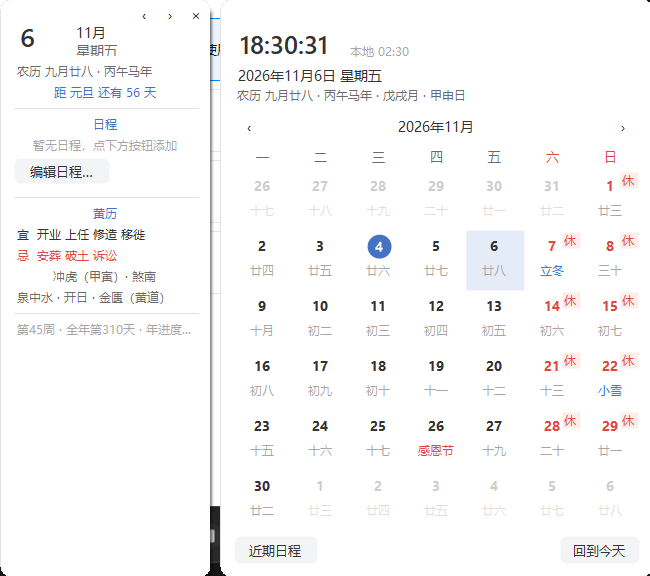
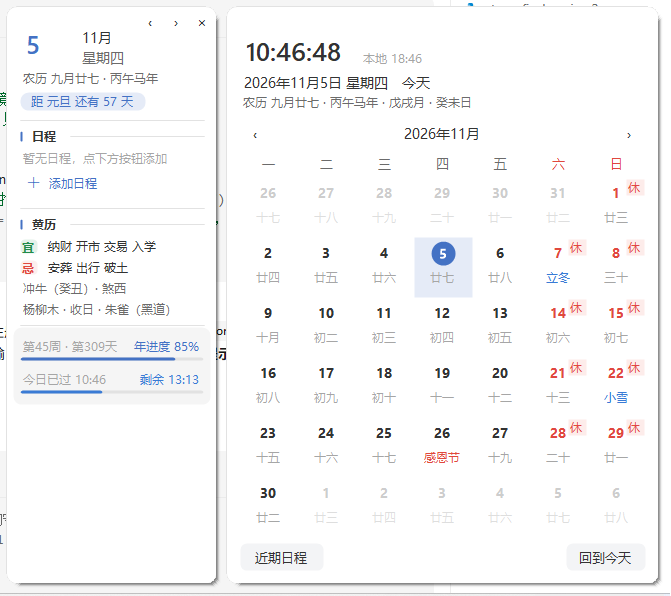
优化: 日期详情卡片视觉层次与进度信息
- 层次感: 小节标题(强调色竖条+粗体+延伸线), 宜/忌彩色标签, 假期倒计时胶囊徽章, 查看今天时大数字强调色, 底部进度区内嵌底板
- 新增: 年度进度条(周/天/百分比), 查看今天时附今日已过/剩余时长+当日进度条(实时)
- 日程按钮改图标链接式: 空日程"+ 添加日程"(MDL2 E710), 有日程"✏ 编辑日程"(E70F), 悬停圆角底
- 修复: 无 TextFormatFlags 的 DrawText 默认水平居中导致卡片排版混乱(半左半中); 卡片头部 10.5pt 行高矩形过小裁掉星期/月份底部笔画; 黄历小节多余步进
- README: 更新详情卡片功能描述/操作表/截图/致谢(Ant Design Calendar)

diff --git a/TaskbarChinaClock.cs b/TaskbarChinaClock.cs
@@ -345,7 +345,7 @@ namespace ChinaClock
     internal sealed class PanelPalette
     {
         public bool Dark;
-        public Color Back, Border, Text, Sub, Red, Blue, Accent, Dim, DimSub, SubLunar,
+        public Color Back, Border, Text, Sub, Red, Blue, Good, Accent, Dim, DimSub, SubLunar,
             SelBg, Hover, BtnBg, BtnHot, RestBg, RestFg, WorkBg, WorkFg, Dot;
 
         public static PanelPalette Load()
@@ -366,6 +366,7 @@ namespace ChinaClock
                 p.Sub = Color.FromArgb(107, 107, 107);
                 p.Red = Color.FromArgb(224, 72, 62);
                 p.Blue = Color.FromArgb(58, 123, 213);
+                p.Good = Color.FromArgb(34, 139, 74);
                 p.Dim = Color.FromArgb(205, 205, 205);
                 p.DimSub = Color.FromArgb(222, 222, 222);
                 p.SubLunar = Color.FromArgb(166, 166, 166);
@@ -386,6 +387,7 @@ namespace ChinaClock
                 p.Sub = Color.FromArgb(156, 156, 156);
                 p.Red = Color.FromArgb(240, 98, 88);
                 p.Blue = Color.FromArgb(110, 160, 225);
+                p.Good = Color.FromArgb(112, 190, 128);
                 p.Dim = Color.FromArgb(84, 84, 84);
                 p.DimSub = Color.FromArgb(74, 74, 74);
                 p.SubLunar = Color.FromArgb(150, 150, 150);
@@ -1404,6 +1406,8 @@ namespace ChinaClock
         private int _pad, _headerH, _titleH, _weekH, _cellH, _cellW, _footerH;
         private int _offDate, _offInfo; // 头部日期行/农历行距头部顶端的物理偏移（按字体行高算得）
         private Font _fTime, _fDate, _fInfo, _fWeek, _fDay, _fSmall, _fFoot;
+        private Font _fIcon;                     // Segoe 图标字体（添加/编辑日程小图标），可能为 null
+        private Font _fSection;                  // 小节标题粗体（日程/黄历 + 宜/忌标签）
         private Rectangle _gridRect, _btnTitlePrev, _btnTitleNext, _titleRect, _btnToday, _btnAgenda;
         private int _pickMode;      // 中部层级：0=月历 1=选月 2=选年（十年区）3=近期日程列表
         private int _pickYear;      // 选月/选年视图浏览的年份
@@ -1432,7 +1436,7 @@ namespace ChinaClock
 
         // 配色由 PanelPalette 按主题/强调色生成（C1/C3）
         private PanelPalette P;
-        private Color _cText, _cSub, _cRed, _cBlue, _cAccent, _cDim,
+        private Color _cText, _cSub, _cRed, _cBlue, _cGood, _cAccent, _cDim,
             _cDimSub, _cSubLunar, _cSelBg, _cHover, _cBtnBg, _cBtnHot,
             _cBorder, _cRestBg, _cRestFg, _cWorkBg, _cWorkFg, _cDot;
 
@@ -1451,7 +1455,7 @@ namespace ChinaClock
             Settings.Load();
             P = PanelPalette.Load();
             BackColor = P.Back;
-            _cText = P.Text; _cSub = P.Sub; _cRed = P.Red; _cBlue = P.Blue; _cAccent = P.Accent; _cDim = P.Dim;
+            _cText = P.Text; _cSub = P.Sub; _cRed = P.Red; _cBlue = P.Blue; _cGood = P.Good; _cAccent = P.Accent; _cDim = P.Dim;
             _cDimSub = P.DimSub; _cSubLunar = P.SubLunar; _cSelBg = P.SelBg; _cHover = P.Hover;
             _cBtnBg = P.BtnBg; _cBtnHot = P.BtnHot; _cBorder = P.Border; _cDot = P.Dot;
             _cRestBg = P.RestBg; _cRestFg = P.RestFg; _cWorkBg = P.WorkBg; _cWorkFg = P.WorkFg;
@@ -1466,6 +1470,8 @@ namespace ChinaClock
             _fDay = new Font("Segoe UI", 10.5F, FontStyle.Bold);
             _fSmall = new Font("Microsoft YaHei UI", 8.5F);
             _fFoot = new Font("Microsoft YaHei UI", 9.5F);
+            _fIcon = MakeIconFont(10F);
+            _fSection = new Font("Microsoft YaHei UI", 9F, FontStyle.Bold);
             int hTime = TextRenderer.MeasureText("00:00:00", _fTime).Height;
             int hDate = TextRenderer.MeasureText("2026年11月4日 星期三", _fDate).Height;
             int hInfo = TextRenderer.MeasureText("农历 九月廿六", _fInfo).Height;
@@ -2096,15 +2102,17 @@ namespace ChinaClock
             DrawGlyphButton(g, _btnCardNext, "›", _cardHot == 2);
             DrawGlyphButton(g, _btnCardClose, "×", _cardHot == 3);
 
-            // 大字日期（日 + 月 + 星期）
+            // 大字日期（日 + 月 + 星期）；查看今天时大数字用强调色，与其他日期区分
+            // 注：雅黑 10.5pt 行高≈18.5px，旧矩形高 18/16px 会把 CJK 最底一笔裁掉（"三"变"二"），已加高矩形
             y += Scale(4);
+            bool cardToday = d.Date == Now().Date;
             TextRenderer.DrawText(g, d.Day.ToString(), _fTime, new Rectangle(rx, y, Scale(52), Scale(38)),
-                _cText, TextFormatFlags.Left | TextFormatFlags.VerticalCenter);
+                cardToday ? _cAccent : _cText, TextFormatFlags.Left | TextFormatFlags.VerticalCenter);
             TextRenderer.DrawText(g, d.ToString("M月"), _fDate,
-                new Rectangle(rx + Scale(58), y + Scale(5), rw - Scale(58), Scale(18)),
+                new Rectangle(rx + Scale(58), y + Scale(3), rw - Scale(58), Scale(19)),
                 _cText, TextFormatFlags.Left | TextFormatFlags.Top);
             TextRenderer.DrawText(g, WeekFull[(int)d.DayOfWeek], _fDate,
-                new Rectangle(rx + Scale(58), y + Scale(23), rw - Scale(58), Scale(16)),
+                new Rectangle(rx + Scale(58), y + Scale(23), rw - Scale(58), Scale(21)),
                 _cSub, TextFormatFlags.Left | TextFormatFlags.Top);
             y += Scale(46);
 
@@ -2119,7 +2127,8 @@ namespace ChinaClock
             {
                 bool isFest = di.Festival != null;
                 TextRenderer.DrawText(g, isFest ? di.Festival : di.TermName, _fInfo,
-                    new Rectangle(rx, y, rw, Scale(16)), isFest ? _cRed : _cBlue);
+                    new Rectangle(rx, y, rw, Scale(16)), isFest ? _cRed : _cBlue,
+                    TextFormatFlags.Left | TextFormatFlags.VerticalCenter | TextFormatFlags.EndEllipsis);
                 y += Scale(21);
             }
 
@@ -2129,29 +2138,35 @@ namespace ChinaClock
             {
                 bool work = di.Badge == "班";
                 TextRenderer.DrawText(g, reason + (work ? "（补班）" : "（休）"), _fInfo,
-                    new Rectangle(rx, y, rw, Scale(16)), work ? _cWorkFg : _cRestFg);
+                    new Rectangle(rx, y, rw, Scale(16)), work ? _cWorkFg : _cRestFg,
+                    TextFormatFlags.Left | TextFormatFlags.VerticalCenter | TextFormatFlags.EndEllipsis);
                 y += Scale(21);
             }
 
-            // 假期区间 / 倒计时
+            // 假期区间 / 倒计时：胶囊徽章（强调色浅底），头部信息区与正文区的视觉分界
             string hol = HolidayLine(d);
             if (hol != null)
             {
-                TextRenderer.DrawText(g, hol, _fInfo, new Rectangle(rx, y, rw, Scale(16)), _cAccent);
-                y += Scale(21);
+                Size hz = TextRenderer.MeasureText(g, hol, _fInfo);
+                Rectangle pill = new Rectangle(rx, y + Scale(1), Math.Min(rw, hz.Width + Scale(16)), Scale(19));
+                using (SolidBrush b = new SolidBrush(_cSelBg))
+                    g.FillPath(b, RoundedPath(pill, pill.Height / 2 - 1));
+                TextRenderer.DrawText(g, hol, _fInfo, pill, _cAccent,
+                    TextFormatFlags.HorizontalCenter | TextFormatFlags.VerticalCenter | TextFormatFlags.EndEllipsis);
+                y += Scale(26);
             }
 
             DrawSep(g, rx, y, rw);
             y += Scale(11);
 
-            // 当天日程（最多 4 行，超出折叠）
-            TextRenderer.DrawText(g, "日程", _fSmall, new Rectangle(rx, y, rw, Scale(15)), _cAccent);
-            y += Scale(21);
+            // 当天日程（最多 6 行，超出折叠）
+            y += DrawSectionTitle(g, "日程", y, rx, rw);
             List<AgendaItem> items = AgendaStore.On(d);
             if (items.Count == 0)
             {
                 TextRenderer.DrawText(g, "暂无日程，点下方按钮添加", _fSmall,
-                    new Rectangle(rx, y, rw, Scale(15)), _cSubLunar);
+                    new Rectangle(rx, y, rw, Scale(15)), _cSubLunar,
+                    TextFormatFlags.Left | TextFormatFlags.VerticalCenter);
                 y += Scale(21);
             }
             else
@@ -2159,10 +2174,11 @@ namespace ChinaClock
                 int shown = 0;
                 foreach (AgendaItem it in items)
                 {
-                    if (shown >= 4)
+                    if (shown >= 6)
                     {
                         TextRenderer.DrawText(g, "… 共 " + items.Count + " 项", _fSmall,
-                            new Rectangle(rx, y, rw, Scale(15)), _cSub);
+                            new Rectangle(rx, y, rw, Scale(15)), _cSub,
+                            TextFormatFlags.Left | TextFormatFlags.VerticalCenter);
                         y += Scale(20);
                         break;
                     }
@@ -2173,26 +2189,39 @@ namespace ChinaClock
                     shown++;
                 }
             }
-            _btnCardEdit = new Rectangle(rx, y, Scale(96), Scale(26));
-            DrawMiniButton(g, _btnCardEdit, "编辑日程…", _cardHot == 4);
-            y += Scale(36);
+            // 添加/编辑日程：轻量"图标+文字"链接式按钮（悬停补圆角底），替代笨重的灰底块
+            bool emptyAgenda = items.Count == 0;
+            string btnText = emptyAgenda ? "添加日程" : "编辑日程";
+            string btnGlyph = emptyAgenda ? "\uE710" : "\uE70F";   // MDL2：加号 / 铅笔
+            Size btnTsz = TextRenderer.MeasureText(g, btnText, _fInfo);
+            int btnH = Scale(24), glyphW = Scale(16), btnPad = Scale(7);
+            _btnCardEdit = new Rectangle(rx, y, btnPad + glyphW + Scale(3) + btnTsz.Width + btnPad, btnH);
+            if (_cardHot == 4) FillHover(g, _btnCardEdit);
+            if (_fIcon != null)
+                TextRenderer.DrawText(g, btnGlyph, _fIcon,
+                    new Rectangle(rx + btnPad, y, glyphW, btnH), _cAccent,
+                    TextFormatFlags.Left | TextFormatFlags.VerticalCenter | TextFormatFlags.NoPadding);
+            else
+                TextRenderer.DrawText(g, "+", _fWeek,
+                    new Rectangle(rx + btnPad, y, glyphW, btnH), _cAccent,
+                    TextFormatFlags.Left | TextFormatFlags.VerticalCenter);
+            TextRenderer.DrawText(g, btnText, _fInfo,
+                new Rectangle(rx + btnPad + glyphW + Scale(3), y, btnTsz.Width, btnH), _cAccent,
+                TextFormatFlags.Left | TextFormatFlags.VerticalCenter);
+            y += Scale(34);
             DrawSep(g, rx, y, rw);
             y += Scale(11);
 
             // 黄历
-            TextRenderer.DrawText(g, "黄历", _fSmall, new Rectangle(rx, y, rw, Scale(15)), _cAccent);
-            y += Scale(21);
+            y += DrawSectionTitle(g, "黄历", y, rx, rw);
             string officer = Almanac.Officer(di.GanZhiDay, di.GanZhiMonth);
-            TextRenderer.DrawText(g, "宜  " + Almanac.Yi(officer), _fInfo,
-                new Rectangle(rx, y, rw, Scale(16)), _cText,
-                TextFormatFlags.Left | TextFormatFlags.EndEllipsis);
-            y += Scale(21);
-            TextRenderer.DrawText(g, "忌  " + Almanac.Ji(officer), _fInfo,
-                new Rectangle(rx, y, rw, Scale(16)), _cRed,
-                TextFormatFlags.Left | TextFormatFlags.EndEllipsis);
-            y += Scale(21);
+            y += DrawAlmanacRow(g, "宜", PanelPalette.Blend(P.Back, P.Good, 0.12f), _cGood,
+                Almanac.Yi(officer), y, rx, rw);
+            y += DrawAlmanacRow(g, "忌", PanelPalette.Blend(P.Back, P.Red, 0.09f), _cRed,
+                Almanac.Ji(officer), y, rx, rw);
             TextRenderer.DrawText(g, Almanac.ChongSha(di.GanZhiDay), _fInfo,
-                new Rectangle(rx, y, rw, Scale(16)), _cSub);
+                new Rectangle(rx, y, rw, Scale(16)), _cSub,
+                TextFormatFlags.Left | TextFormatFlags.VerticalCenter | TextFormatFlags.EndEllipsis);
             y += Scale(21);
             bool yellow;
             string zs = Almanac.ZhiShen(di.GanZhiDay, di.GanZhiMonth, out yellow);
@@ -2203,12 +2232,103 @@ namespace ChinaClock
             DrawSep(g, rx, y, rw);
             y += Scale(11);
 
-            // 年度进度（优效日历同款信息）
+            // 底部进度区：内嵌浅色圆角底，把年度/今日两条进度聚合成独立信息区
+            Rectangle foot = new Rectangle(rx - Scale(7), y - Scale(6), rw + Scale(14), cardToday ? Scale(78) : Scale(40));
+            using (SolidBrush b = new SolidBrush(PanelPalette.Blend(P.Back, P.Text, 0.05f)))
+                g.FillPath(b, RoundedPath(foot, Scale(8)));
+            y += Scale(5);
+
+            // 年度进度（左：周/天，右：百分比，下：细进度条——优效日历同款信息，避免长文案被省略号截断）
             int daysInYear = DateTime.IsLeapYear(d.Year) ? 366 : 365;
             int pct = (int)Math.Round(d.DayOfYear * 100.0 / daysInYear);
-            TextRenderer.DrawText(g, "第" + CalendarData.IsoWeek(d) + "周 · 全年第" + d.DayOfYear + "天 · 年进度 " + pct + "%",
-                _fSmall, new Rectangle(rx, y, rw, Scale(15)), _cSubLunar,
-                TextFormatFlags.Left | TextFormatFlags.EndEllipsis);
+            TextRenderer.DrawText(g, "第" + CalendarData.IsoWeek(d) + "周 · 第" + d.DayOfYear + "天", _fSmall,
+                new Rectangle(rx, y, rw - Scale(74), Scale(15)), _cSubLunar,
+                TextFormatFlags.Left | TextFormatFlags.VerticalCenter | TextFormatFlags.EndEllipsis);
+            TextRenderer.DrawText(g, "年进度 " + pct + "%", _fSmall,
+                new Rectangle(rx + rw - Scale(74), y, Scale(74), Scale(15)), _cAccent,
+                TextFormatFlags.Right | TextFormatFlags.VerticalCenter);
+            y += Scale(19);
+            Rectangle track = new Rectangle(rx, y, rw, Scale(4));
+            using (SolidBrush tb = new SolidBrush(_cBorder))
+                g.FillPath(tb, RoundedPath(track, Scale(2)));
+            int fillW = Math.Max(Scale(4), (int)Math.Round(rw * (double)pct / 100.0));
+            Rectangle fillR = new Rectangle(rx, y, fillW, Scale(4));
+            using (SolidBrush fb = new SolidBrush(_cAccent))
+                g.FillPath(fb, RoundedPath(fillR, Scale(2)));
+
+            // 今日时间进度（仅查看今天时显示）：已过/剩余 HH:mm + 细进度条（蓝色区分年度条）
+            if (d.Date == Now().Date)
+            {
+                y += Scale(14);
+                TimeSpan gone = Now() - d.Date;
+                double frac = Math.Max(0.0, Math.Min(1.0, gone.TotalDays));
+                TimeSpan left = TimeSpan.FromDays(1) - gone;
+                if (left < TimeSpan.Zero) left = TimeSpan.Zero;
+                TextRenderer.DrawText(g, "今日已过 " + gone.ToString(@"hh\:mm"), _fSmall,
+                    new Rectangle(rx, y, rw - Scale(74), Scale(15)), _cSubLunar,
+                    TextFormatFlags.Left | TextFormatFlags.VerticalCenter | TextFormatFlags.EndEllipsis);
+                TextRenderer.DrawText(g, "剩余 " + left.ToString(@"hh\:mm"), _fSmall,
+                    new Rectangle(rx + rw - Scale(74), y, Scale(74), Scale(15)), _cBlue,
+                    TextFormatFlags.Right | TextFormatFlags.VerticalCenter);
+                y += Scale(19);
+                Rectangle dtrack = new Rectangle(rx, y, rw, Scale(4));
+                using (SolidBrush tb = new SolidBrush(_cBorder))
+                    g.FillPath(tb, RoundedPath(dtrack, Scale(2)));
+                int dfillW = Math.Max(Scale(4), (int)Math.Round(rw * frac));
+                Rectangle dfillR = new Rectangle(rx, y, dfillW, Scale(4));
+                using (SolidBrush fb = new SolidBrush(_cBlue))
+                    g.FillPath(fb, RoundedPath(dfillR, Scale(2)));
+            }
+        }
+
+        // 卡片小图标字体：优先 Win11 的 Segoe Fluent Icons，回退 Win10 的 Segoe MDL2 Assets；都没有返回 null（画"+"代替）
+        private static Font MakeIconFont(float pt)
+        {
+            foreach (string name in new[] { "Segoe Fluent Icons", "Segoe MDL2 Assets" })
+            {
+                try { return new Font(new FontFamily(name), pt); }
+                catch { }
+            }
+            return null;
+        }
+
+        // 黄历宜/忌行：彩色小标签（chip）+ 中性色条目；条目放不下自动折两行带省略号，返回实际占用高度
+        private int DrawAlmanacRow(Graphics g, string label, Color chipBg, Color chipFg, string items, int y, int rx, int rw)
+        {
+            int chipW = Scale(18), chipH = Scale(15), gap = Scale(7);
+            int itemsX = rx + chipW + gap;
+            int itemsW = rw - chipW - gap;
+            bool wrap = TextRenderer.MeasureText(g, items, _fInfo).Width > itemsW;
+            Rectangle chip = new Rectangle(rx, y + Scale(1), chipW, chipH);
+            using (SolidBrush b = new SolidBrush(chipBg))
+                g.FillPath(b, RoundedPath(chip, Scale(4)));
+            TextRenderer.DrawText(g, label, _fSection, chip, chipFg,
+                TextFormatFlags.HorizontalCenter | TextFormatFlags.VerticalCenter);
+            if (!wrap)
+            {
+                TextRenderer.DrawText(g, items, _fInfo, new Rectangle(itemsX, y, itemsW, Scale(17)), _cText,
+                    TextFormatFlags.Left | TextFormatFlags.VerticalCenter | TextFormatFlags.EndEllipsis);
+                return Scale(21);
+            }
+            TextRenderer.DrawText(g, items, _fInfo, new Rectangle(itemsX, y, itemsW, Scale(36)), _cText,
+                TextFormatFlags.Left | TextFormatFlags.WordBreak | TextFormatFlags.EndEllipsis);
+            return Scale(38);
+        }
+
+        // 小节标题：强调色竖条 + 粗体标题 + 右侧延伸细线（信息区视觉锚点），返回行高
+        private int DrawSectionTitle(Graphics g, string text, int y, int rx, int rw)
+        {
+            Rectangle tick = new Rectangle(rx, y + Scale(3), Scale(3), Scale(11));
+            using (SolidBrush b = new SolidBrush(_cAccent))
+                g.FillPath(b, RoundedPath(tick, Scale(1)));
+            Size ts = TextRenderer.MeasureText(g, text, _fSection);
+            TextRenderer.DrawText(g, text, _fSection, new Rectangle(rx + Scale(9), y, ts.Width + Scale(4), Scale(17)), _cText,
+                TextFormatFlags.Left | TextFormatFlags.VerticalCenter);
+            int lineX = rx + Scale(9) + ts.Width + Scale(9);
+            if (lineX < rx + rw - Scale(2))
+                using (Pen p = new Pen(_cBorder))
+                    g.DrawLine(p, lineX, y + Scale(8), rx + rw, y + Scale(8));
+            return Scale(22);
         }
 
         private void DrawSep(Graphics g, int x, int y, int w)
@@ -2406,7 +2526,7 @@ namespace ChinaClock
             _timer.Dispose();
             _tipPanel.Dispose();
             if (_editor != null && !_editor.IsDisposed) _editor.Dispose();
-            foreach (Font f in new[] { _fTime, _fDate, _fInfo, _fWeek, _fDay, _fSmall, _fFoot })
+            foreach (Font f in new[] { _fTime, _fDate, _fInfo, _fWeek, _fDay, _fSmall, _fFoot, _fIcon, _fSection })
                 if (f != null) f.Dispose();
             base.OnFormClosed(e);
         }

diff --git a/README.md b/README.md
@@ -18,7 +18,7 @@
 | ![近期日程](docs/agenda-list.png) | ![日程编辑器](docs/agenda-editor.png) |
 | 近期日程：未来 14 天清单 | 双击日期编辑日程（支持每年/农历重复） |
 | ![日期详情卡片](docs/day-detail.png) | |
-| 单击日期：旁边弹出当日详情卡片（含黄历） | |
+| 单击日期：旁边弹出当日详情卡片（含黄历/进度） | |
 
 ## 功能
 
@@ -32,11 +32,12 @@
 
 ### 日历面板（左键单击时钟打开/关闭）
 - 农历、节气、节日、干支纪年月日；今天强调色圆圈；周数列（可选）
-- **当日详情卡片**（优效日历式）：单击某天，面板旁边弹出独立圆角卡片——大字日期、节日/节气、休/班原因、假期区间（"第X天/共Y天"）或倒计时、当天日程（可一键编辑）、
-  **黄历**（宜/忌·十二建星、冲煞、纳音五行、值神黄道/黑道）、年度进度（第几周/第几天/百分比）；卡片上 `‹` `›` 逐日翻看，再点同天/Esc/× 收起
+- **当日详情卡片**（优效日历式）：单击某天，面板旁边弹出独立圆角卡片——大字日期（查看今天时为强调色）、节日/节气、休/班原因、假期倒计时**胶囊徽章**、当天日程（可一键编辑）、
+  **黄历**（宜/忌彩色标签·十二建星、冲煞、纳音五行、值神黄道/黑道）、**年度进度条**（第几周/第几天/百分比）；
+  查看**今天**时附**今日已过/剩余时长与当日进度条**（实时走动）；卡片上 `‹` `›` 逐日翻看，再点同天/Esc/× 收起
 - **年月选择器**：点标题逐级下钻（月历 → 选月 → 十年选年），`‹` `›`/滚轮按当前层级翻页，
   点空白/Esc 收起——与 Windows 自带日历 / WinUI CalendarView / v-calendar 同款交互
-- **日程备忘**：详情卡片上"编辑日程…"按钮编辑（日期格不响应双击，连点浏览不误弹编辑窗），
+- **日程备忘**：详情卡片上"+ 添加日程 / ✏ 编辑日程"图标按钮编辑（日期格不响应双击，连点浏览不误弹编辑窗），
   格底圆点标记，悬停显示清单；支持一次性、`每年 MM-DD`（公历每年）、`农历 MM-DD`（农历每年）三种格式
 - **近期日程**：底部按钮打开未来 14 天清单，点条目跳转那天
 - **日程提醒**：当日日程弹托盘气泡；内容开头带 `HH:mm ` 的到点单独提醒（按中国时间）
@@ -63,7 +64,7 @@
 | 悬停时钟 | 农历/节日/假期倒计时/本机时间提示 |
 | 单击面板某天 | 打开/收起当日详情卡片（连点浏览时卡片稳定跟随；卡片 `‹` `›` 逐日翻看，Esc 逐级收起） |
 | 点击面板标题（年月） | 逐级切换 月历 → 选月 → 选年 |
-| 卡片"编辑日程…"按钮 | 编辑当日日程备忘 |
+| 卡片"+ 添加日程 / ✏ 编辑日程"按钮 | 编辑当日日程备忘 |
 | 面板底部"近期日程" | 未来 14 天日程清单 |
 | 右键 → 设置… | 打开设置窗口 |
 | 右键 → 退出（恢复系统时钟） | 移除覆盖，原生时钟即刻回来 |
@@ -100,7 +101,7 @@ C:\Windows\Microsoft.NET\Framework64\v4.0.30319\csc.exe -nologo -target:winexe ^
 - [holiday-cn](https://github.com/NateScarlet/holiday-cn) — 法定假日/调休数据集（MIT）
 - 农历：.NET 内置 `ChineseLunisolarCalendar`（1901–2100，天文级准确）；节气：寿星通用公式
 - 黄历（宜忌/冲煞/纳音/值神）：由干支纯算法推算的通行简明口径，供日常参考，非权威择日
-- 交互设计参考：[优效日历](https://www.youxiaocalendar.com/)（日期详情卡片）、Windows 自带日历 / WinUI CalendarView、[v-calendar](https://github.com/nathanreyes/v-calendar)、[ElevenClock](https://github.com/marticliment/ElevenClock)
+- 交互设计参考：[优效日历](https://www.youxiaocalendar.com/)（日期详情卡片）、[Ant Design Calendar](https://ant-design.antgroup.com/components/calendar-cn)（信息分层/标签）、Windows 自带日历 / WinUI CalendarView、[v-calendar](https://github.com/nathanreyes/v-calendar)、[ElevenClock](https://github.com/marticliment/ElevenClock)
 
 ## 已知限制
 
